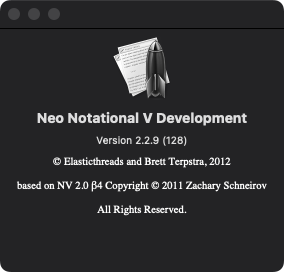
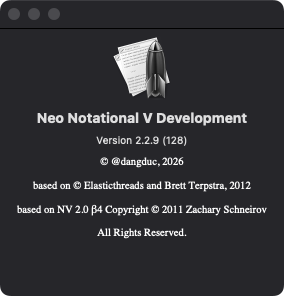
Update About copyright and retain upstream credits

diff --git a/Resources/Help/Credits.html b/Resources/Help/Credits.html
@@ -1,5 +1,7 @@
 <div style="text-align: center; font-size: 8pt;">
-<p>&#xA9;  Elasticthreads and Brett Terpstra, 2012</p>
+<p>&#xA9; @dangduc, 2026</p>
+
+<p>based on &#xA9; Elasticthreads and Brett Terpstra, 2012</p>
 
 <p>based on NV 2.0 &beta;4
 Copyright &#xA9; 2011 Zachary Schneirov</p>

diff --git a/docs/screenshots/README.md b/docs/screenshots/README.md
@@ -125,8 +125,10 @@ Inspect these images before replacing the documentation images.
 [`neo-notational-v-shortcut.png`](neo-notational-v-shortcut.png) shows the updated keyboard-shortcut dialog.
 
 The capture date is September 21, 2026, on macOS 13.7.8 with Xcode 15.2.
-The Intel Development app runs under Rosetta, with application source at `18066ce736d48108109b7b8fd59f8a8cde6073eb`.
+The Intel Development executable runs under Rosetta, built from source at `18066ce736d48108109b7b8fd59f8a8cde6073eb`.
[1 lines of base64/hex data omitted]
+The About capture loads the updated `Resources/Help/Credits.html` into the disposable app copy.
+It shows `© @dangduc, 2026` above the upstream credits.
 The captures use a disposable notes library and a separate preferences domain.
 WindowServer captures the native app windows without pixel changes.
 The disposable app exited after capture.
